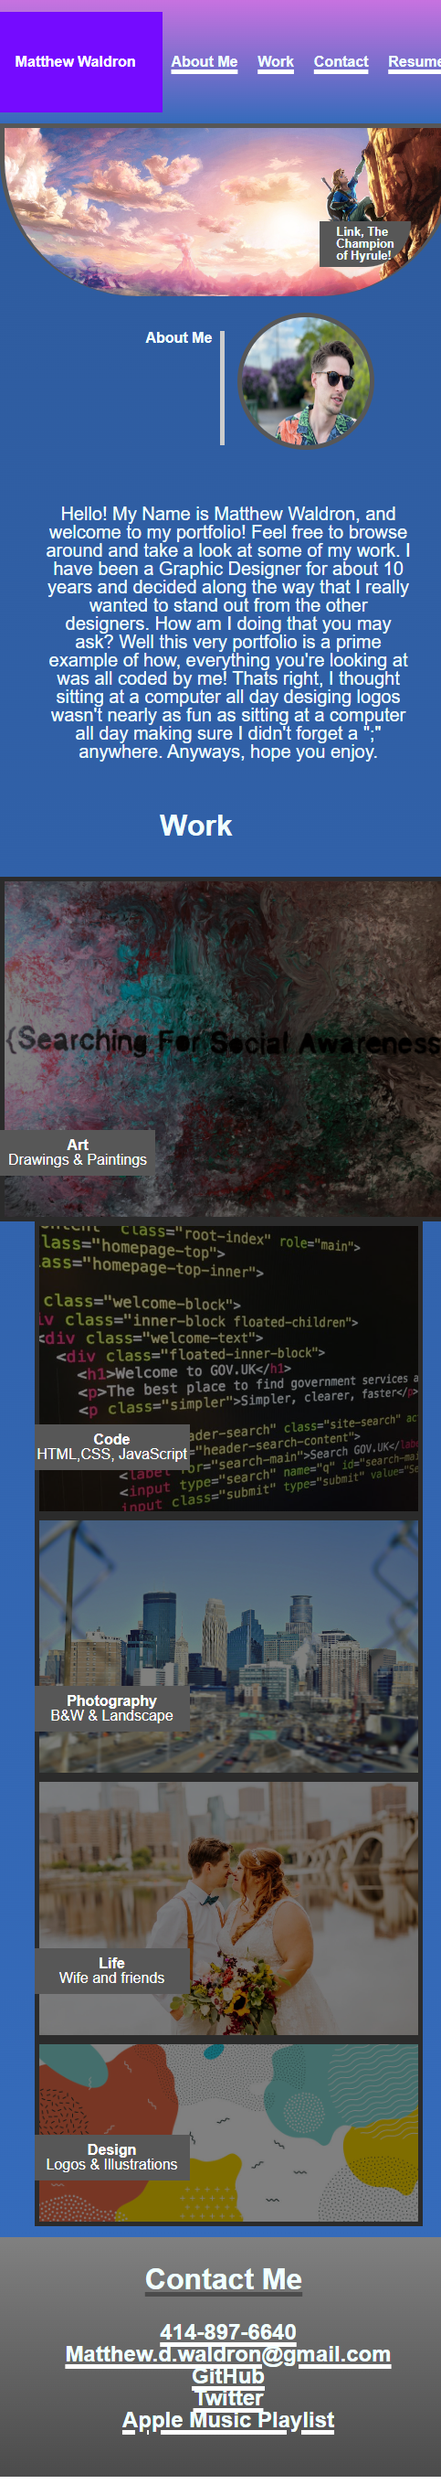
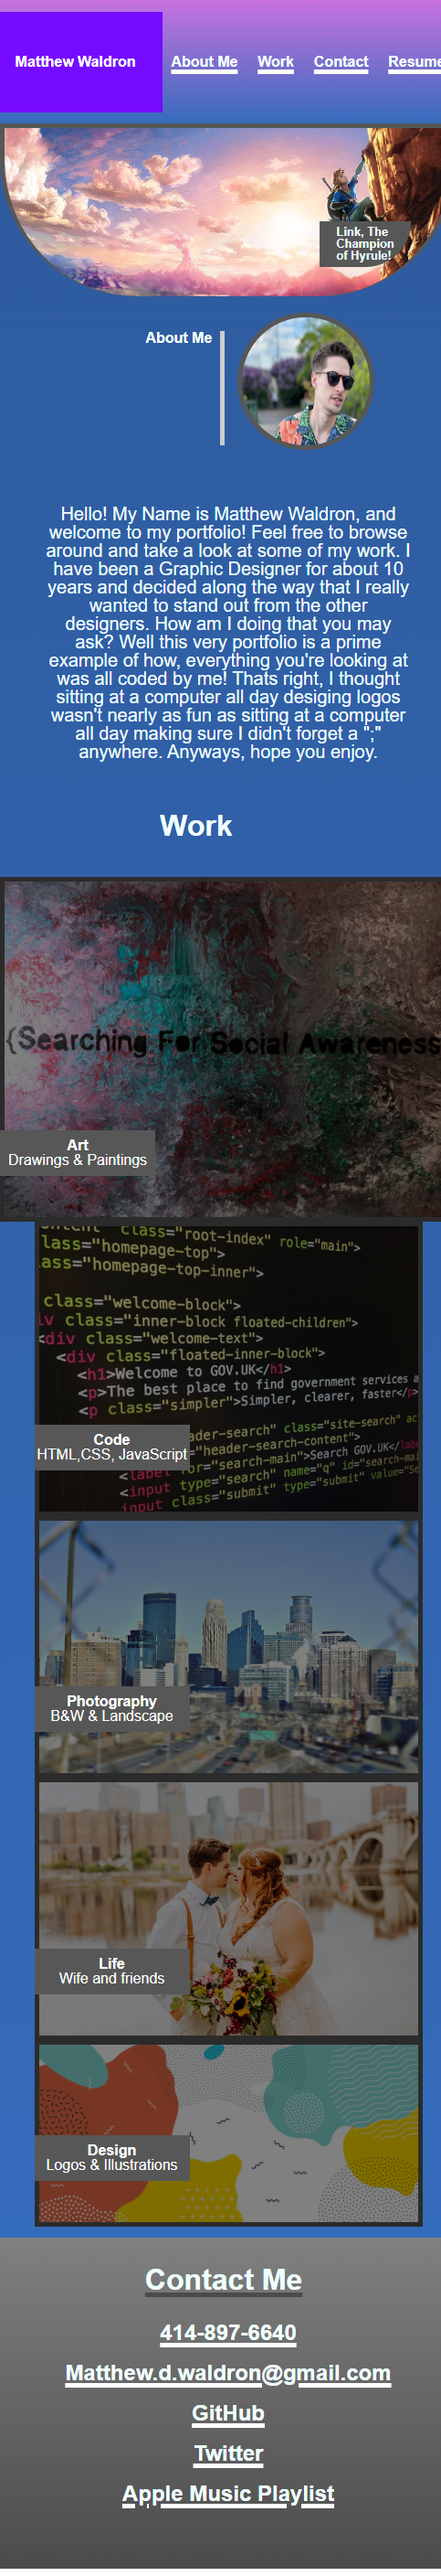
updated README screenshots_updated footer

diff --git a/assets/style.css b/assets/style.css
@@ -454,10 +454,19 @@ footer {
  }
 
  @media screen and (max-width:900px) {
-    .email, .git, .twitter, .apple {
-        
+ .git, .twitter, .apple {
+
         margin-bottom: 10px;
         padding-bottom: 10px;
         
  }
  }
+
+ @media screen and (max-width:900px) {
+    .email {
+           padding-top: 10px;
+           padding-bottom: 10px;
+           margin-top: 10px;
+           margin-bottom: 10px;
+    }
+    }

diff --git a/README.md b/README.md
@@ -26,8 +26,8 @@ Here is a link to my deployed application:
 https://mrartrager.github.io/Portfolio/
 
 
-Here is a Fullscreen screen shot:
+## Here is a Fullscreen screen shot:
 ![](assets/Screenshot.png)
 
-Here is a Mobilescreen screen shot:
+## Here is a Mobilescreen screen shot:
 ![](assets/smaller%20screen.png)
